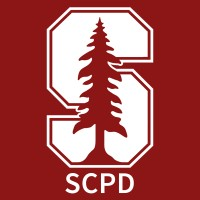
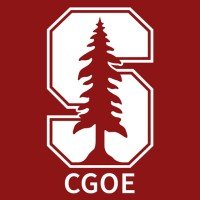
new data for Stanford timeline

diff --git a/app/timeline/page.tsx b/app/timeline/page.tsx
@@ -18,8 +18,8 @@ const timelineItems = [
     endDate: "Present",
     image: "/images/stanford_scpd.jpeg",
     title: "Course Facilitator",
-    location: "SCPD",
-    description: "Started as a course facilitator for the XCS229: Machine Learning course at Stanford Center for Professional Development."
+    location: "Stanford University",
+    description: "Started as a course facilitator for the XCS229: Machine Learning course at Stanford Engineering Center for Global & Online Education (CGOE)."
   },
   {
     startDate: "August 2024",
